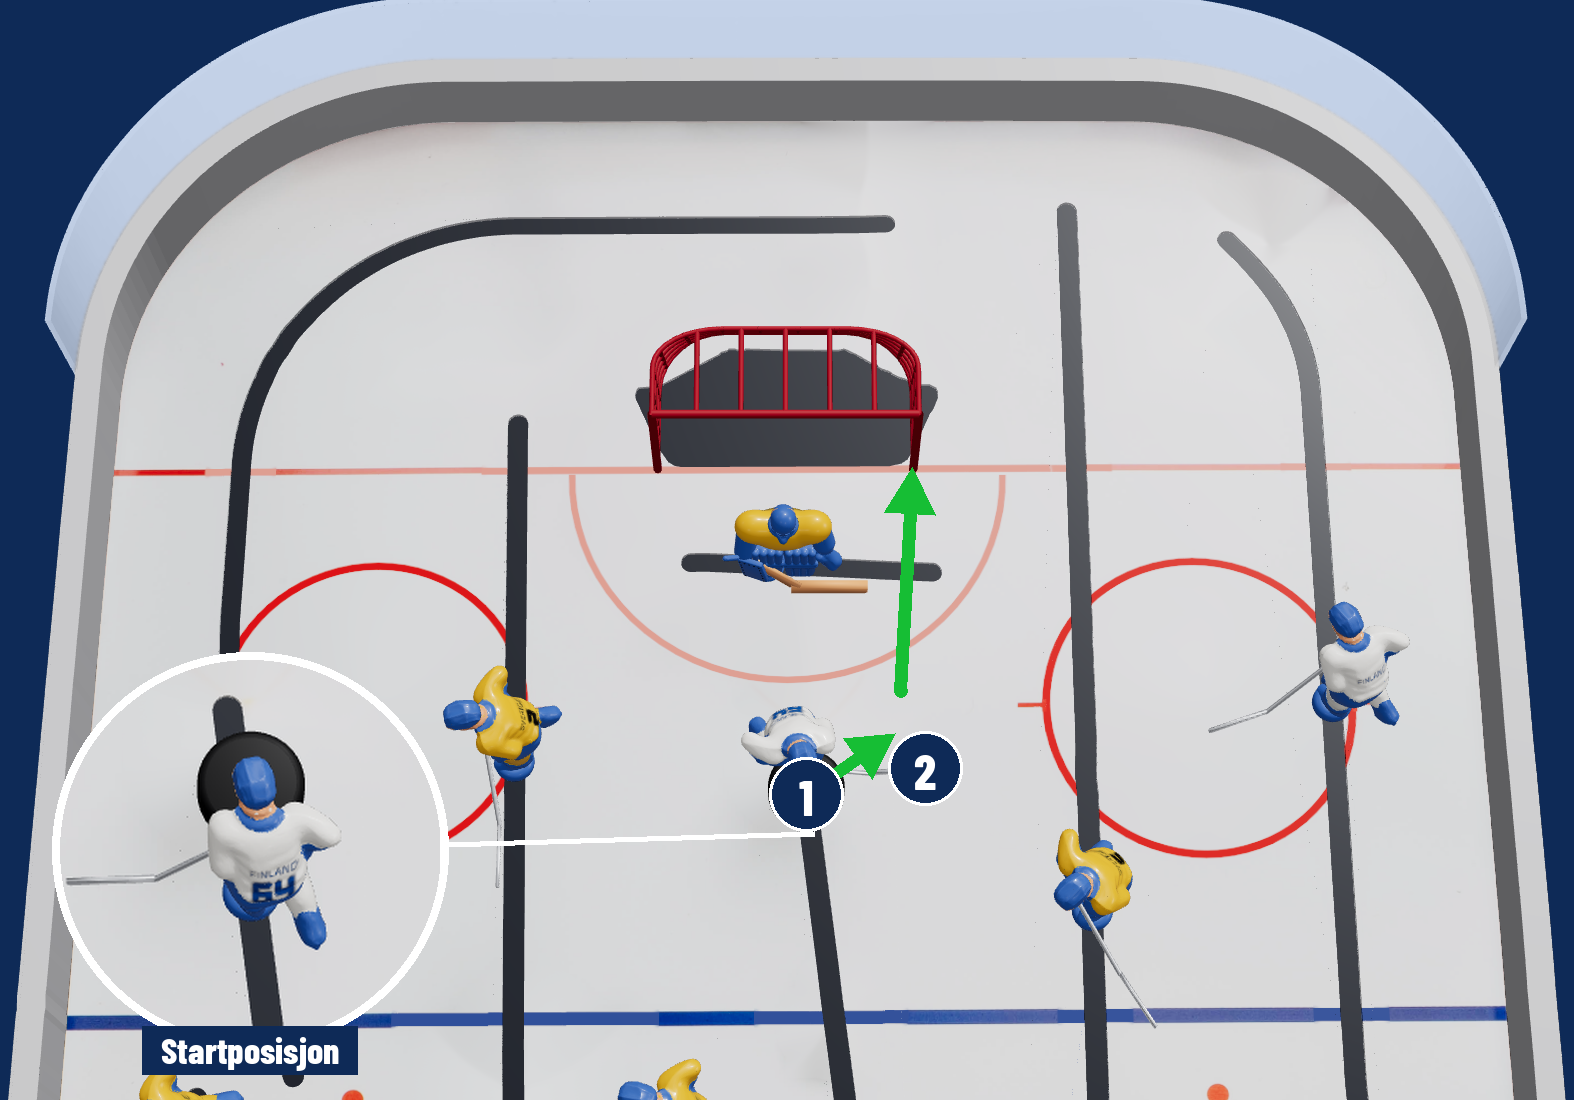
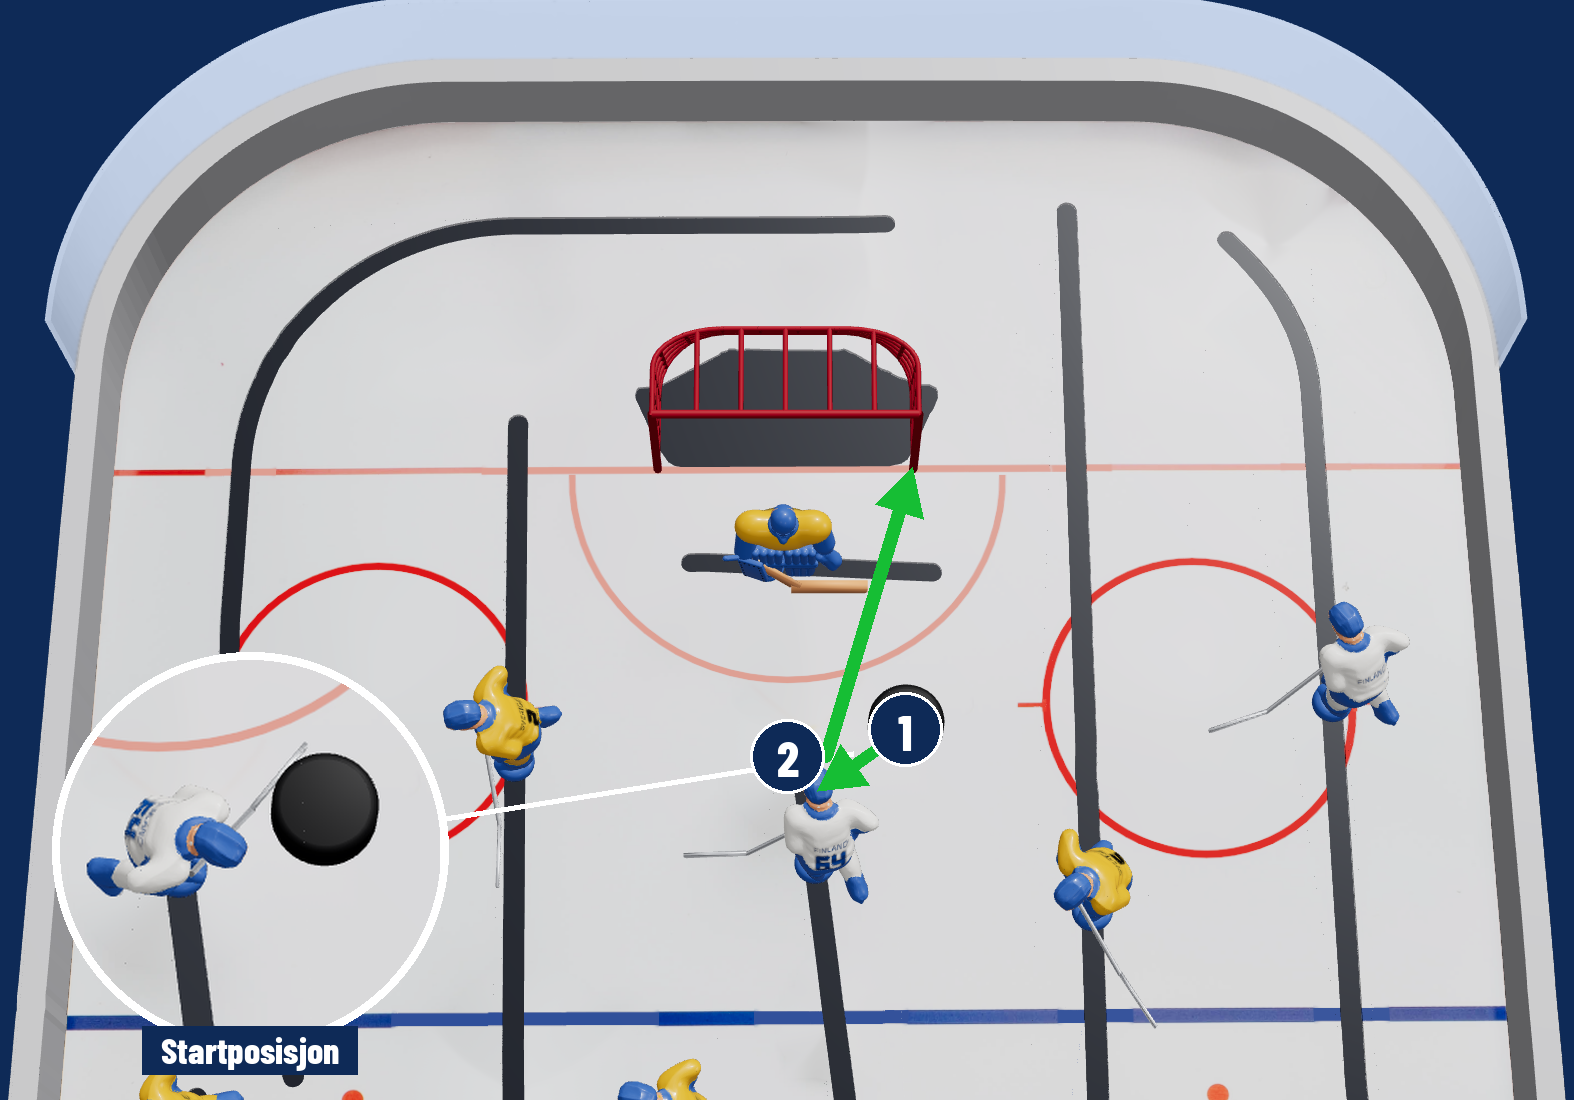
Move pictures: redraw Fakie Lillstøvel, Omvendspjass and Spjass after review comments
Claude-Session: https://claude.ai/code/session_0163UNMThHuTXhwU3eDHknZt

Changed region(s): [[0.2802, 0.4327, 0.6226, 0.8345], [0.0311, 0.6182, 0.249, 0.9582], [0.1868, 0.6182, 0.2179, 0.6491]]

diff --git a/scripts/move-pictures/build.py b/scripts/move-pictures/build.py
@@ -158,7 +158,7 @@ def picture_poses(spec):
     return poses, hidden
 
 
-def solve_contact(pid, target, toward):
+def solve_contact(pid, target, toward, face_only=None):
     """Pose of pid with the puck against the blade middle (front face pushing toward `toward`, or the back face,
     backhand), as close to target as the slot allows. Turning away from the push direction costs 0.08 mm per degree,
     the backhand 4 mm, so the figure faces the pass unless that leaves the blade far from the picture's point."""
@@ -167,6 +167,8 @@ def solve_contact(pid, target, toward):
     want = math.degrees(math.atan2(*(toward - target)[::-1]))
     best = None
     for face, extra in ((1, 0.0), (-1, BACKHAND_COST)):
+        if face_only and face != (1 if face_only == "front" else -1):
+            continue
         loc = BLADE_MID + np.array([face * (R + 1.6), 0.0])
         for dh in range(-180, 181, 2):
             h = want + dh + (0 if face > 0 else 180)
@@ -290,7 +292,7 @@ def build(spec):
                 toward = raw[nxt[k]]
             else:  # the last receiver of an innspill: faces the goal
                 toward = pic_to_world(297, 212)
-            sol = solve_contact(c["pid"], raw[k], toward)
+            sol = solve_contact(c["pid"], raw[k], toward, c.get("face"))  # "face": the user fixed which side plays it
             points[k] = np.array(sol["puck_mm"])
             notes.append({"contact": k, **sol, "picture_mm": [round(float(v), 1) for v in raw[k]], "drawn": c["pose"]})
             if c["pose"]:

diff --git a/docs/state.md b/docs/state.md
@@ -586,7 +586,7 @@ Iteration 20 closed without repair cycles:
 
 - **Skater from the STL (2026-10-12, PROPOSED):** `validation/players/stl/figures-vs-photos.png`, `figures-views.png`,
   `paint-check.png`, `skater-fit.png`, `overhead-fit.png`; report `validation/players/stl/figures-report.json`.
-- **Move pictures without a puck.no picture, 70 redrawn with puck.no bystander poses (2026-11-11, PROPOSED):** review page https://claude.ai/artifact/W8i2bf6ZSrKrE8bHZtAMSb (verdicts in its `reviews` collection); docs/move-pictures.md.
+- **Move pictures without a puck.no picture, 70 redrawn with puck.no bystander poses (2026-11-11, PROPOSED):** review page https://claude.ai/artifact/W8i2bf6ZSrKrE8bHZtAMSb (verdicts in its `reviews` collection); docs/move-pictures.md. Review comments of 2026-11-11 (Fakie Lillstøvel, Omvendspjass, Spjass) redrawn, see docs/move-pictures.md.
 - **Move pictures, the 51 puck.no pictures redrawn with every figure as puck.no draws it (2026-11-10, PROPOSED):** `validation/move-pictures/<id>.png`, side by side with puck.no in `validation/move-pictures/comparison/page01-13.jpg` (all 13 pages AI-reviewed); figure poses read by `scripts/move-pictures/detect.py` into `data/move-pictures/detected/`; method in docs/move-pictures.md ("Figures as puck.no draws them"). Waiting for the user's review. The 70 designed pictures are unchanged.
 - **Move pictures, all 121 (2026-10-13, PROPOSED):** review page https://claude.ai/artifact/P1sVBnjbTc6QZ7ktskAbDE; `validation/move-pictures/comparison/page1-8.jpg` (the 51 redrawn); docs/move-pictures.md.
 - **NM26 new tracks (2026-10-10, PROPOSED):** `docs/nm26-new-tracks.md`, tap page https://claude.ai/artifact/21hTqYXsKVvuYDcZHGuWXp

diff --git a/docs/move-pictures.md b/docs/move-pictures.md
@@ -166,3 +166,17 @@ Review page (PROPOSED, waiting for the user): https://claude.ai/artifact/W8i2bf6
 change / Looks good). Verdicts are kept in the page's database (collection `reviews`, document id = move id from
 `data/encyclopedia/index.json`). The user's six comments from the first review page (Edwall- and Lindahl-innspill and
 the four fakie centre tricks, 14 Oct) are shown on those cards.
+
+### Review comments, 2026-11-11
+
+The user commented on three cards (Fakie Näcka marked good). Redrawn, PROPOSED, cards marked redrawn on the page:
+
+- **Fakie Lillstøvel** ("starts backwards"): the start bubble shows the centre turned backwards (theta 180) with the
+  puck behind it in the heel groove (`puck_local_mm` [-24, 0]); point 1 sits on that puck (`"snap": false`).
+- **Fakie Omvendspjass** ("swap start and position"): swapped literally. The start is the old trick pose (arc 238.3,
+  theta -131.7, puck on the blade); the trick is the old start (arc 204.9, facing forward, puck in the toe groove),
+  set with the set-grip fields on contact 2.
+- **Fakie Spjass** ("start right, position opposite"): the trick is played turned backwards as in Fakie Näcka (arc
+  233.8, theta -177.9, puck on the back of the blade), shot to the left corner.
+
+`solve_contact` also takes a contact's `"face": "front"|"back"` to fix the blade side (not used by the final specs).
